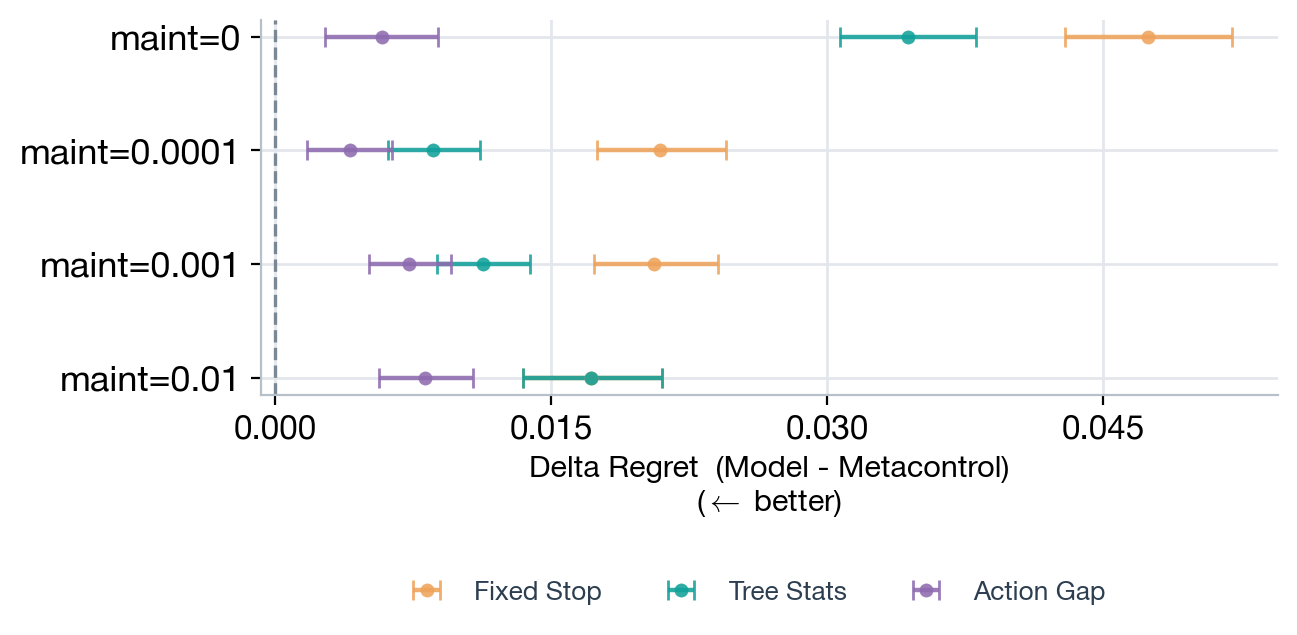
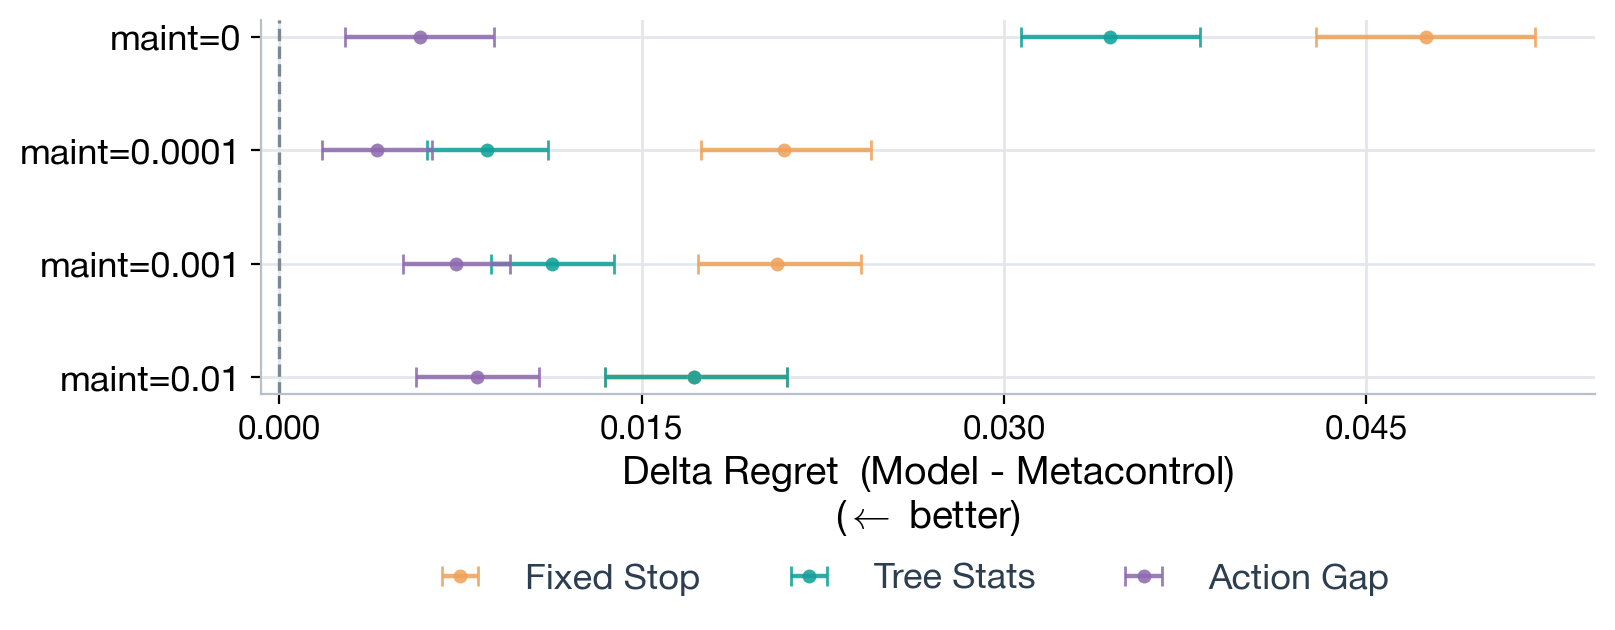
replotting

diff --git a/src/analysis/evaluate.py b/src/analysis/evaluate.py
@@ -912,7 +912,7 @@ def _delta_ci_panel(ax, regime_labels, deltas_by_regime, candidates=_DELTA_CANDI
     ax.axvline(0, color=_MUTED, lw=1.2, ls="--")
     ax.set_yticks(positions); ax.set_yticklabels(regime_labels, fontsize=13)
     ax.invert_yaxis()
-    ax.set_xlabel("Delta Regret  (Model - Metacontrol)\n($\\leftarrow$ better)", fontsize=11)
+    ax.set_xlabel("Delta Regret  (Model - Metacontrol)\n($\\leftarrow$ better)", fontsize=14)
     ax.xaxis.set_major_locator(plt.MaxNLocator(nbins=5))
     ax.grid(axis="both", color=_GRID, lw=1)
 
@@ -1037,18 +1037,18 @@ def _render_delta_regret(data: dict, out_dir: str | Path) -> dict:
         gap_frac = 0.9 / fig.get_size_inches()[1]
         handles, labels = ax.get_legend_handles_labels()
         fig.legend(handles, labels, loc="lower center", bbox_to_anchor=(0.5, -gap_frac), ncol=len(handles),
-                  fontsize=9.5, frameon=False)
+                  fontsize=13, frameon=False)
         save_pdf_png(fig, str(out_dir), base, dpi=200, bbox_extra_artists=(fig.legends[0],))
 
     _rcparams()
     # Fixed per-figure legend (not axes-fraction) below, so the many-row
     # maintenance sweep doesn't render with a huge empty gap before the legend
     # relative to the short lambda panel.
-    figA, axA = plt.subplots(figsize=(8.2 * 0.8, (1.1 + 0.62 * len(labels_a)) * 0.8 * 0.85))
+    figA, axA = plt.subplots(figsize=(8.2 * 1.05, (1.1 + 0.62 * len(labels_a)) * 0.8 * 0.85))
     _delta_ci_panel(axA, labels_a, deltas_a)
     _finish(figA, axA, "delta_mean_regret_lambda")
 
-    figB, axB = plt.subplots(figsize=(8.2 * 0.8, (1.1 + 0.62 * len(labels_b)) * 0.8 * 0.85))
+    figB, axB = plt.subplots(figsize=(8.2 * 1.05, (1.1 + 0.62 * len(labels_b)) * 0.8 * 0.85))
     _delta_ci_panel(axB, labels_b, deltas_b)
     _finish(figB, axB, "delta_mean_regret_maintenance")
 
